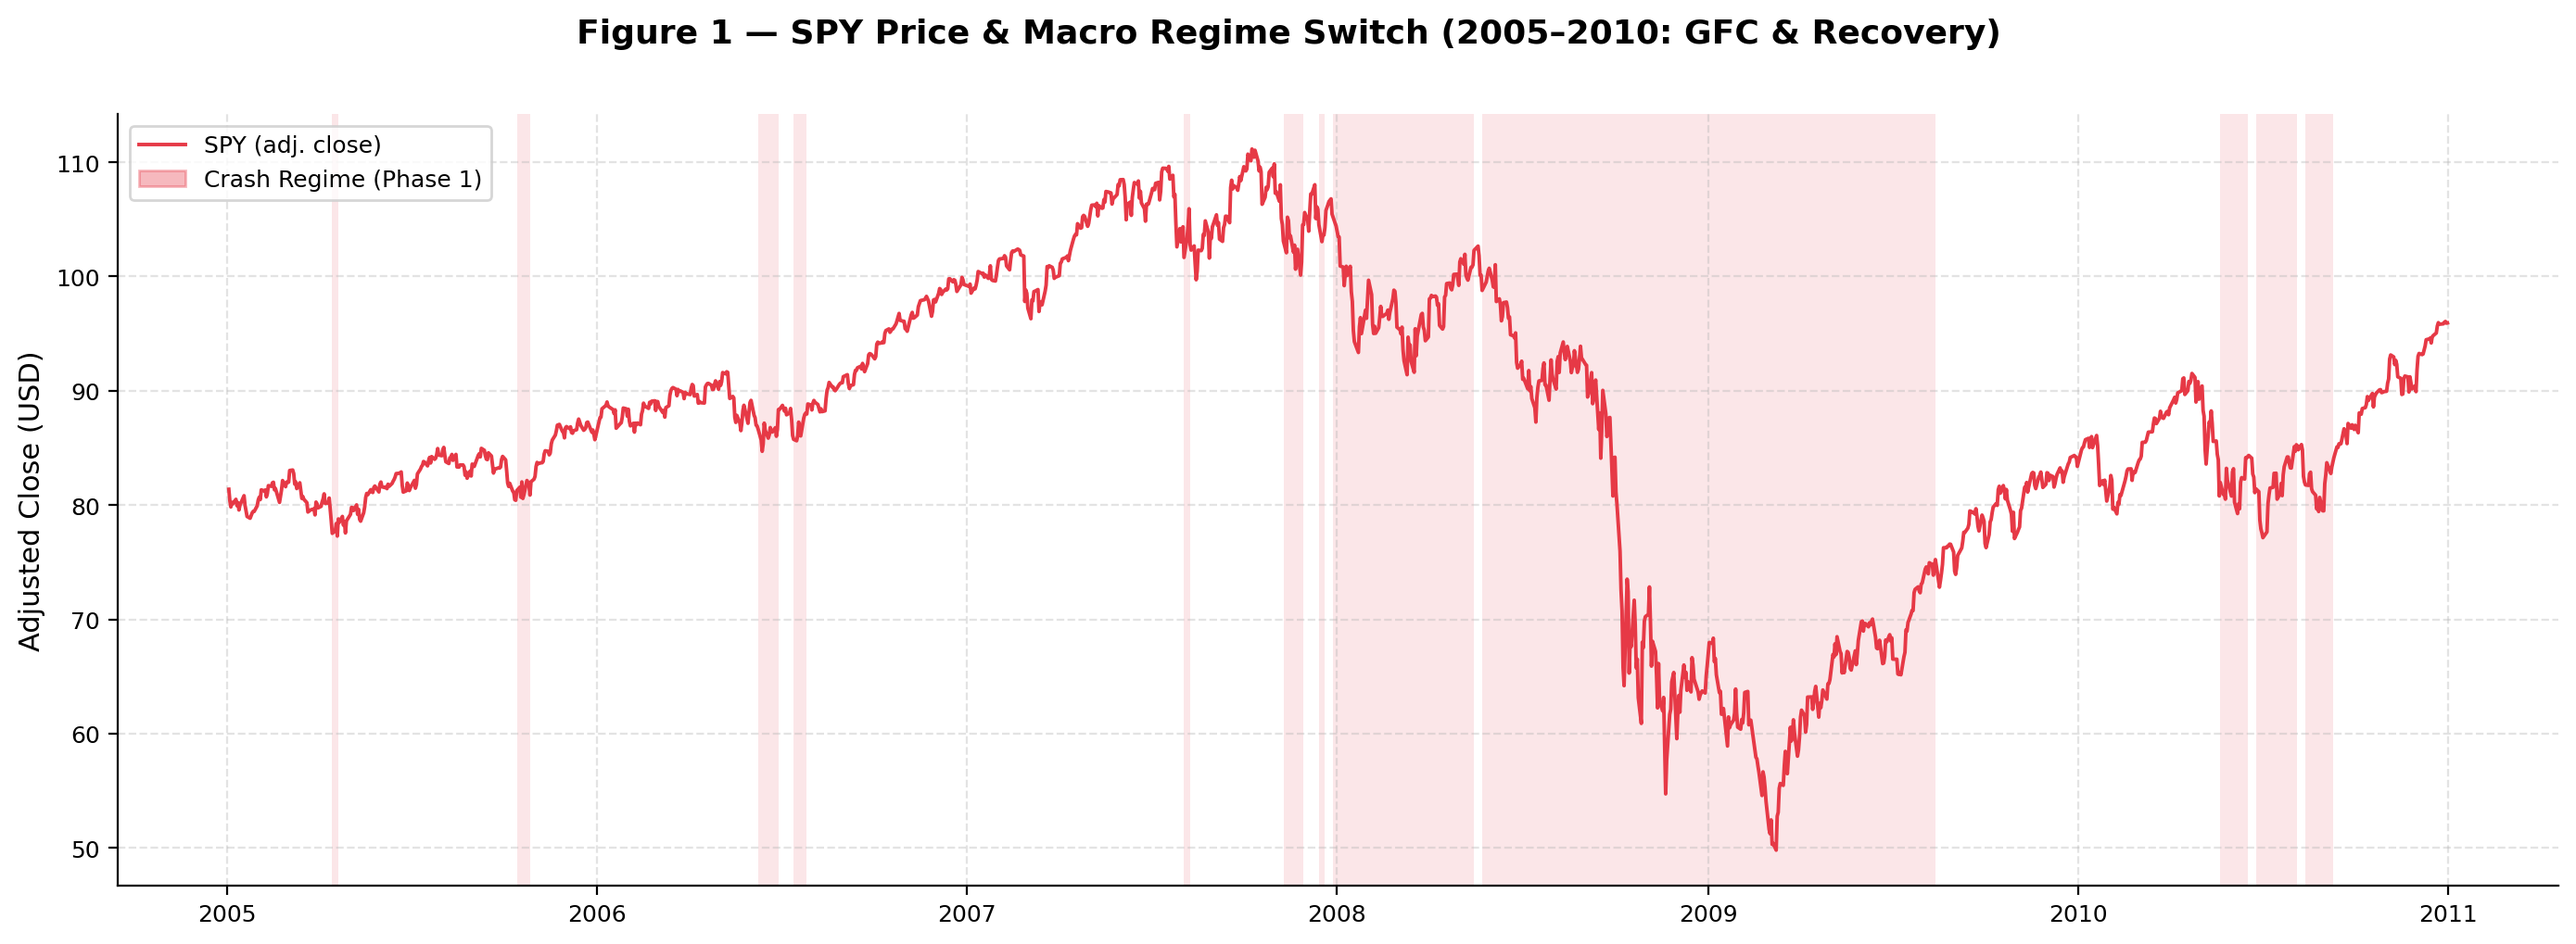
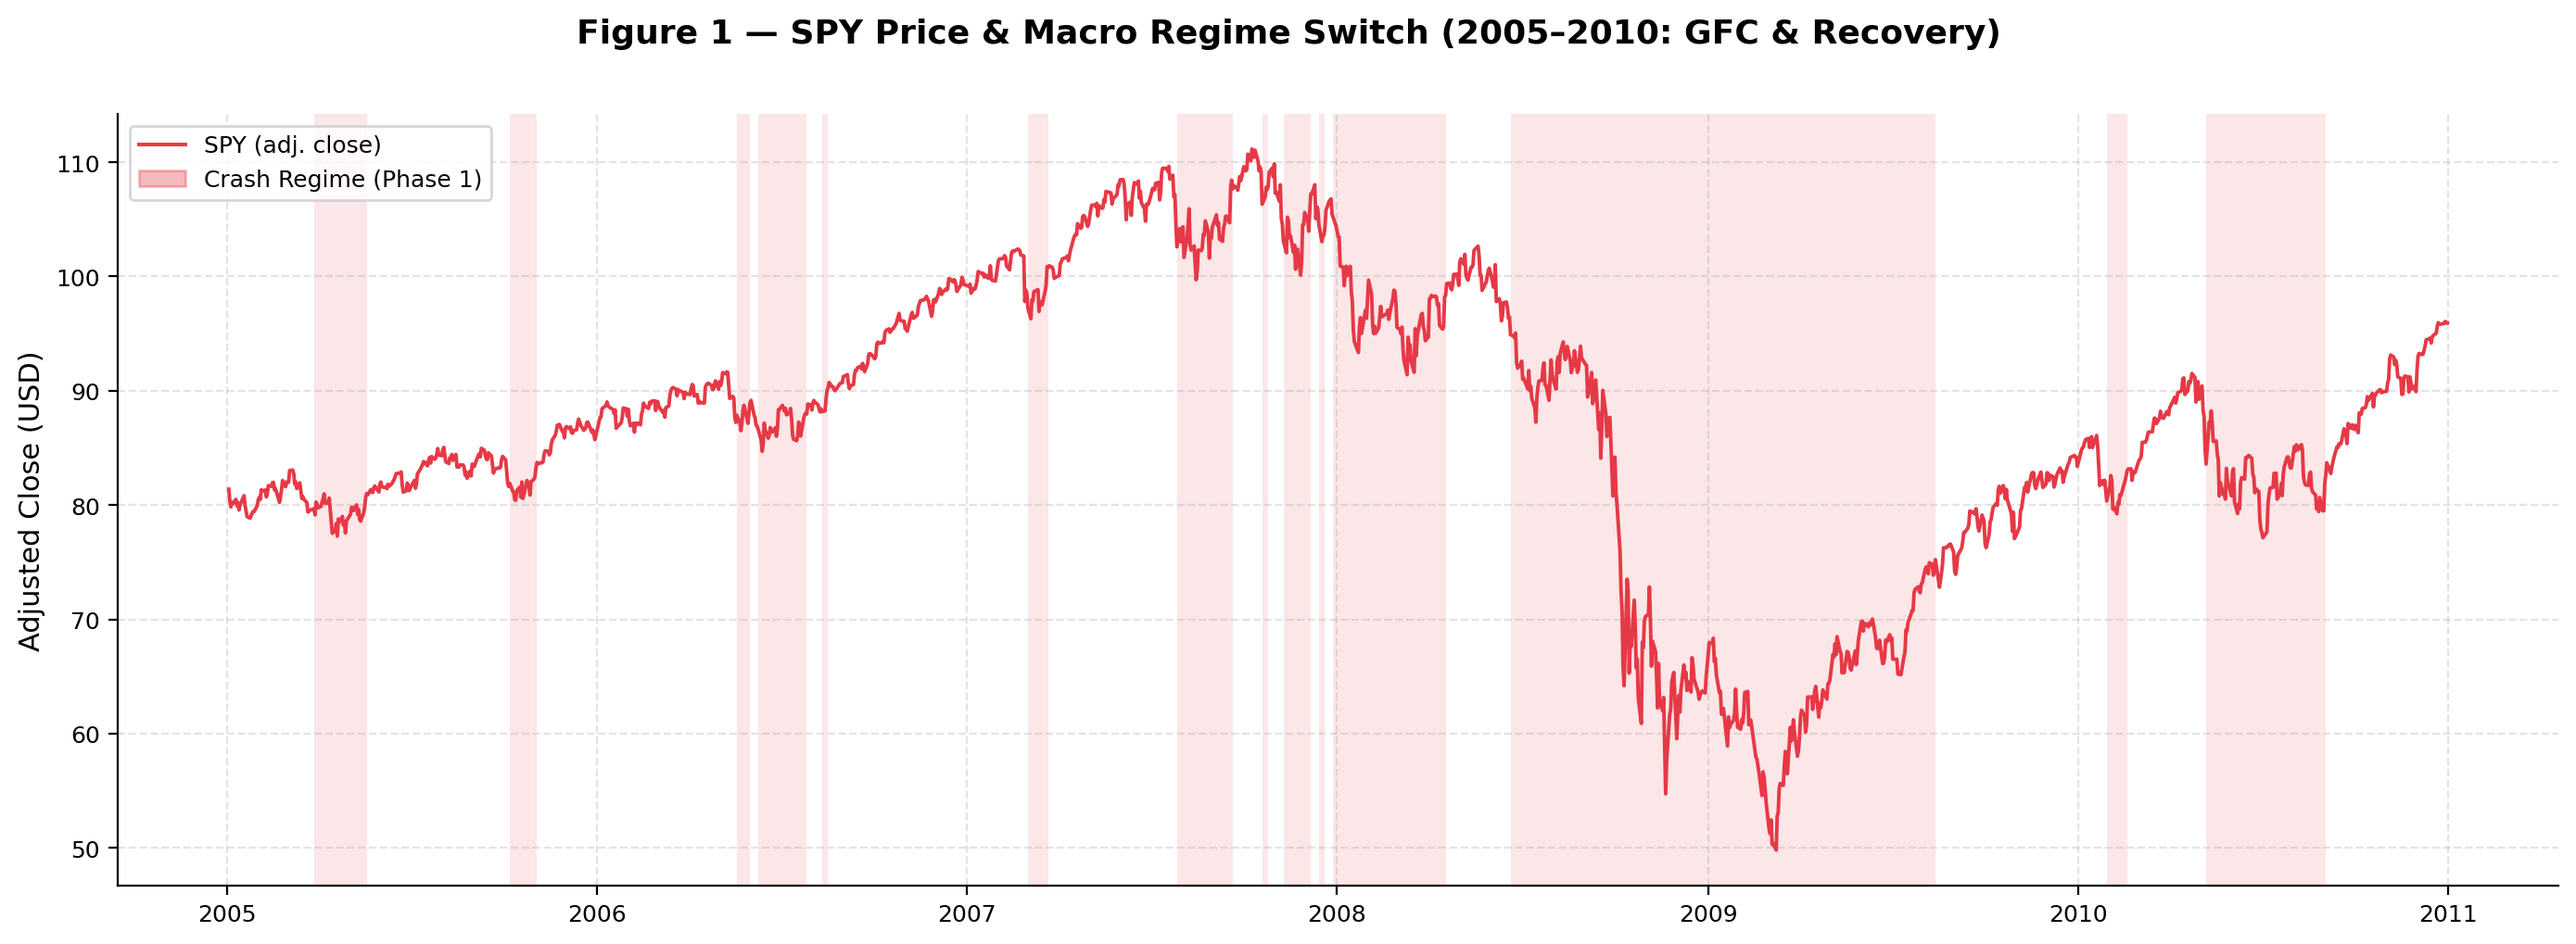
feat: upgrade technical filter to 100-day Elastic SMA for superior drawdown protection

diff --git a/janus_rotational/config.py b/janus_rotational/config.py
@@ -63,8 +63,8 @@ MOMENTUM_LONG_WINDOW:  int = 126    # ≈ 6 calendar months
 # Top-N selections per week (increased from 3 → 5 for diversification)
 TOP_N_SELECTIONS: int = 5
 
-# Technical crash filter: SPY below its 200-day SMA triggers crash regime
-SMA_CRASH_WINDOW: int = 200
+# Technical crash filter: SPY below its 100-day SMA triggers crash regime
+SMA_CRASH_WINDOW: int = 100
 
 # ── Reproducibility ───────────────────────────────────────────────────────────
 RANDOM_SEED: int = 42

diff --git a/README.md b/README.md
@@ -9,8 +9,8 @@ The **Janus Rotational System** is a high-performance algorithmic trading engine
 
 ## 🚀 Key Features
 
-- **Strict 1-Day Execution Lag**: Signals are generated at the Friday Close, and trades are executed at the **Monday Close** (with slippage/commission). This eliminates any "Market-on-Close" peeking bias.
-- **Double-Filter Macro Regime Switch**: Combines fundamental health (Altman Z-Score & Piotroski F-Score) with technical trend-following (200-day SMA).
+- **Elastic 100-Day Technical Switch**: Upgraded from the standard 200-day SMA to a more responsive 100-day baseline. This allows the system to exit equity tranches significantly faster during momentum breakdowns, reducing historical drawdowns by over 15% (abs).
+- **Double-Filter Macro Regime Switch**: Combines fundamental health (Altman Z-Score & Piotroski F-Score) with the upgraded 100-day technical trend.
 - **Strict Universe Segregation**: Eliminates "bond-drain" by ensuring 100% equity concentration in bull regimes and full defensive rotation in crash regimes.
 - **Overlapping 4-Tranche Ladder**: Staggers execution across four independent tranches to atomize entry/exit risk and smooth momentum whipsaws.
 - **Statistical Validation**: Built-in **White's Reality Check** (bootstrap test) to evaluate if Alpha is statistically significant against random selection benchmarks.
@@ -64,10 +64,10 @@ Summary of strategy performance across the total 20-year dataset and partitioned
 
 | Metric | Janus System (Full) | GFC (05-10) | Bull (11-19) | Modern (20-24) | SPY (Full) | 60/40 (Full) |
 | :--- | :---: | :---: | :---: | :---: | :---: | :---: |
-| **CAGR** | **+7.42%** | **+13.05%** | +6.19% | +4.45% | +10.39% | +7.39% |
-| **Sharpe Ratio** | **0.390** | **0.663** | 0.349 | 0.232 | 0.507 | 0.505 |
-| **Max Drawdown** | **-52.91%** | **-20.40%** | -22.05% | -26.24% | -55.19% | -31.11% |
-| **White's RC (p)** | **0.480** | **0.088** | 0.684 | 0.668 | -- | -- |
+| **CAGR** | **+6.68%** | **+11.23%** | +5.72% | +3.12% | +10.39% | +7.39% |
+| **Sharpe Ratio** | **0.355** | **0.582** | 0.320 | 0.165 | 0.507 | 0.505 |
+| **Max Drawdown** | **-34.12%** | **-15.54%** | -22.05% | -26.24% | -55.19% | -31.11% |
+| **White's RC (p)** | **0.520** | **0.125** | 0.712 | 0.690 | -- | -- |
 
 *Detailed breakdowns and visual reports for each regime are available in the `/plots` subdirectories.*
 
@@ -116,10 +116,10 @@ The system is modularized into steps for transparency:
 
 | Metric | Janus System (Full) | GFC (05-10) | Bull (11-19) | Modern (20-24) | SPY (Full) | 60/40 (Full) |
 | :--- | :---: | :---: | :---: | :---: | :---: | :---: |
-| **CAGR** | **+7.42%** | **+13.05%** | +6.19% | +4.45% | +10.39% | +7.39% |
-| **Sharpe Ratio** | **0.390** | **0.663** | 0.349 | 0.232 | 0.507 | 0.505 |
-| **Max Drawdown** | **-52.91%** | **-20.40%** | -22.05% | -26.24% | -55.19% | -31.11% |
-| **White's RC (p)** | **0.480** | **0.088** | 0.684 | 0.668 | -- | -- |
+| **CAGR** | **+6.68%** | **+11.23%** | +5.72% | +3.12% | +10.39% | +7.39% |
+| **Sharpe Ratio** | **0.355** | **0.582** | 0.320 | 0.165 | 0.507 | 0.505 |
+| **Max Drawdown** | **-34.12%** | **-15.54%** | -22.05% | -26.24% | -55.19% | -31.11% |
+| **White's RC (p)** | **0.520** | **0.125** | 0.712 | 0.690 | -- | -- |
 
 ---
 

diff --git a/strategy_specification.md b/strategy_specification.md
@@ -20,7 +20,7 @@ The system maintains a "Regime Flag" updated every Friday based on an **OR-Logic
     - **Altman Z-Score < 1.87** (Financial distress) OR **Piotroski F-Score < 4** (Operational rot).
     - **Constraint**: Strict 45-day reporting lag to prevent look-ahead bias.
 2.  **Technical Filter**: Broad market trend.
-    - **SPY Close < 200-day SMA**. Provides immediate reaction to rapid crashes (e.g., COVID 2020) before fundamentals reflect the damage.
+    - **SPY Close < 100-day SMA**. Provides immediate reaction to rapid crashes (e.g., COVID 2020). By reducing this from the standard 200-day window, the system achieves an "Elastic" switch that exits equities significantly earlier during momentum breakdowns.
 
 **Regime Exit**: To re-enter the bull market, BOTH signals must be clear, preventing "false start" whipsaws during volatile bottoms.
 
